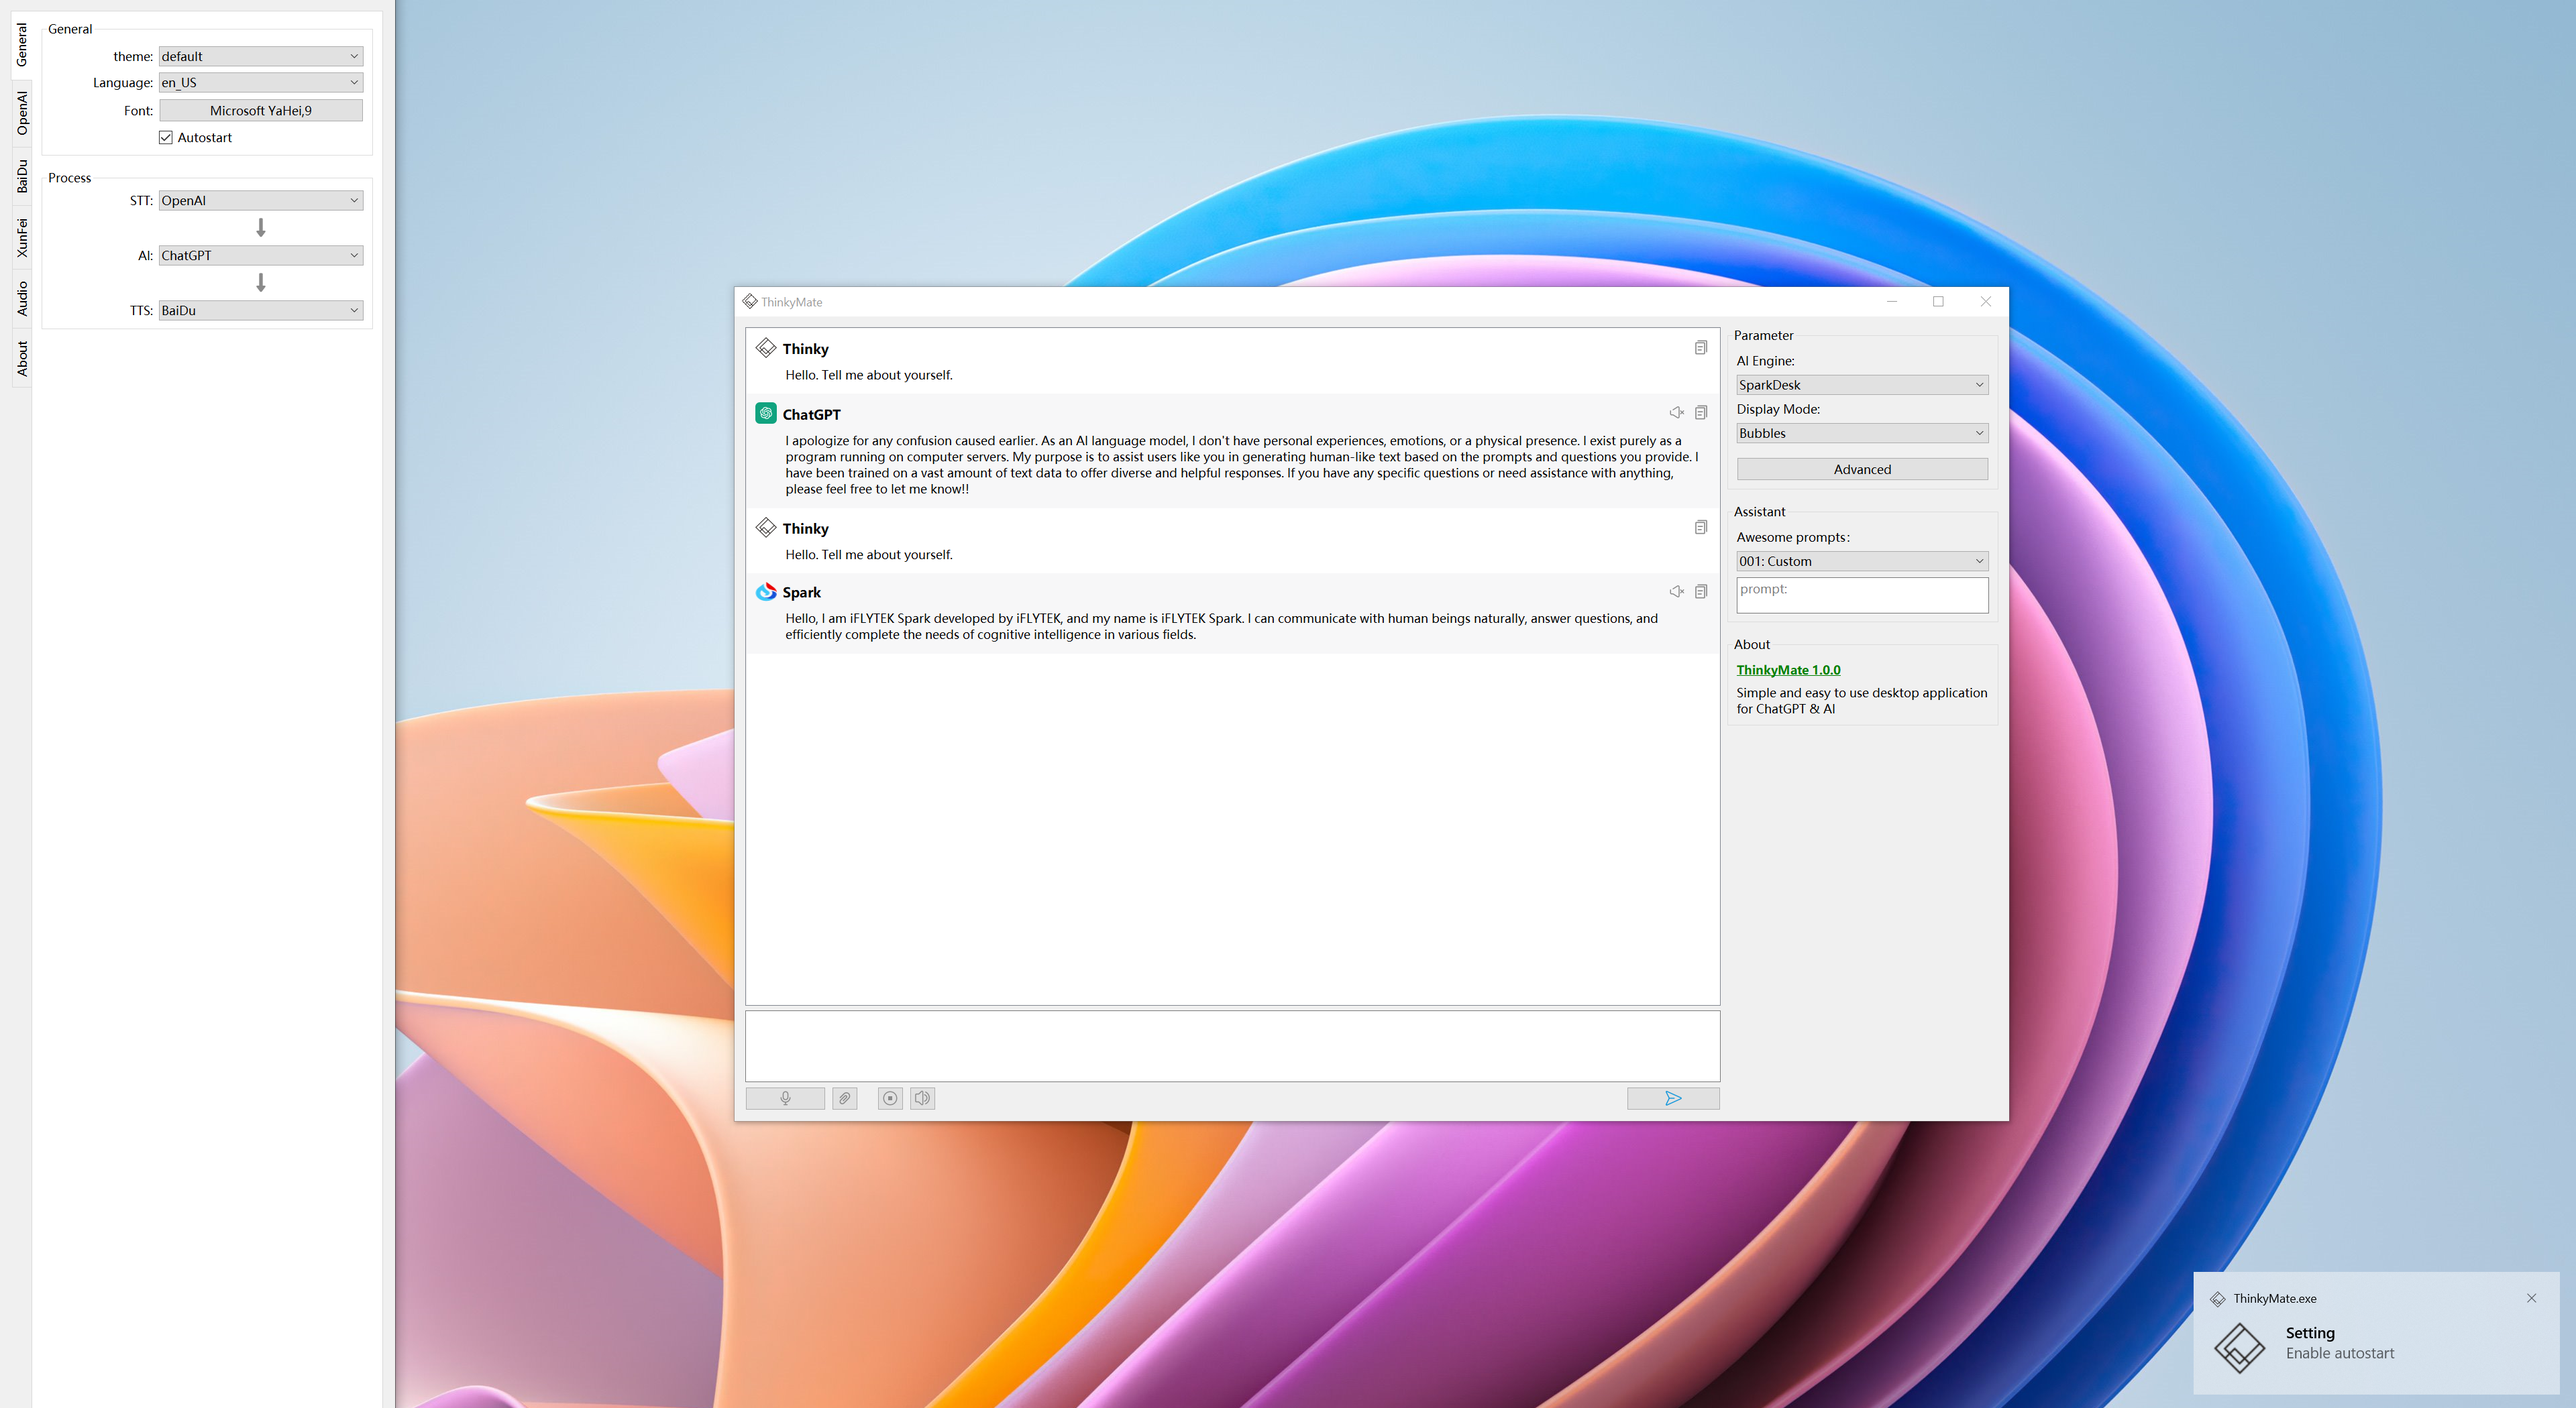
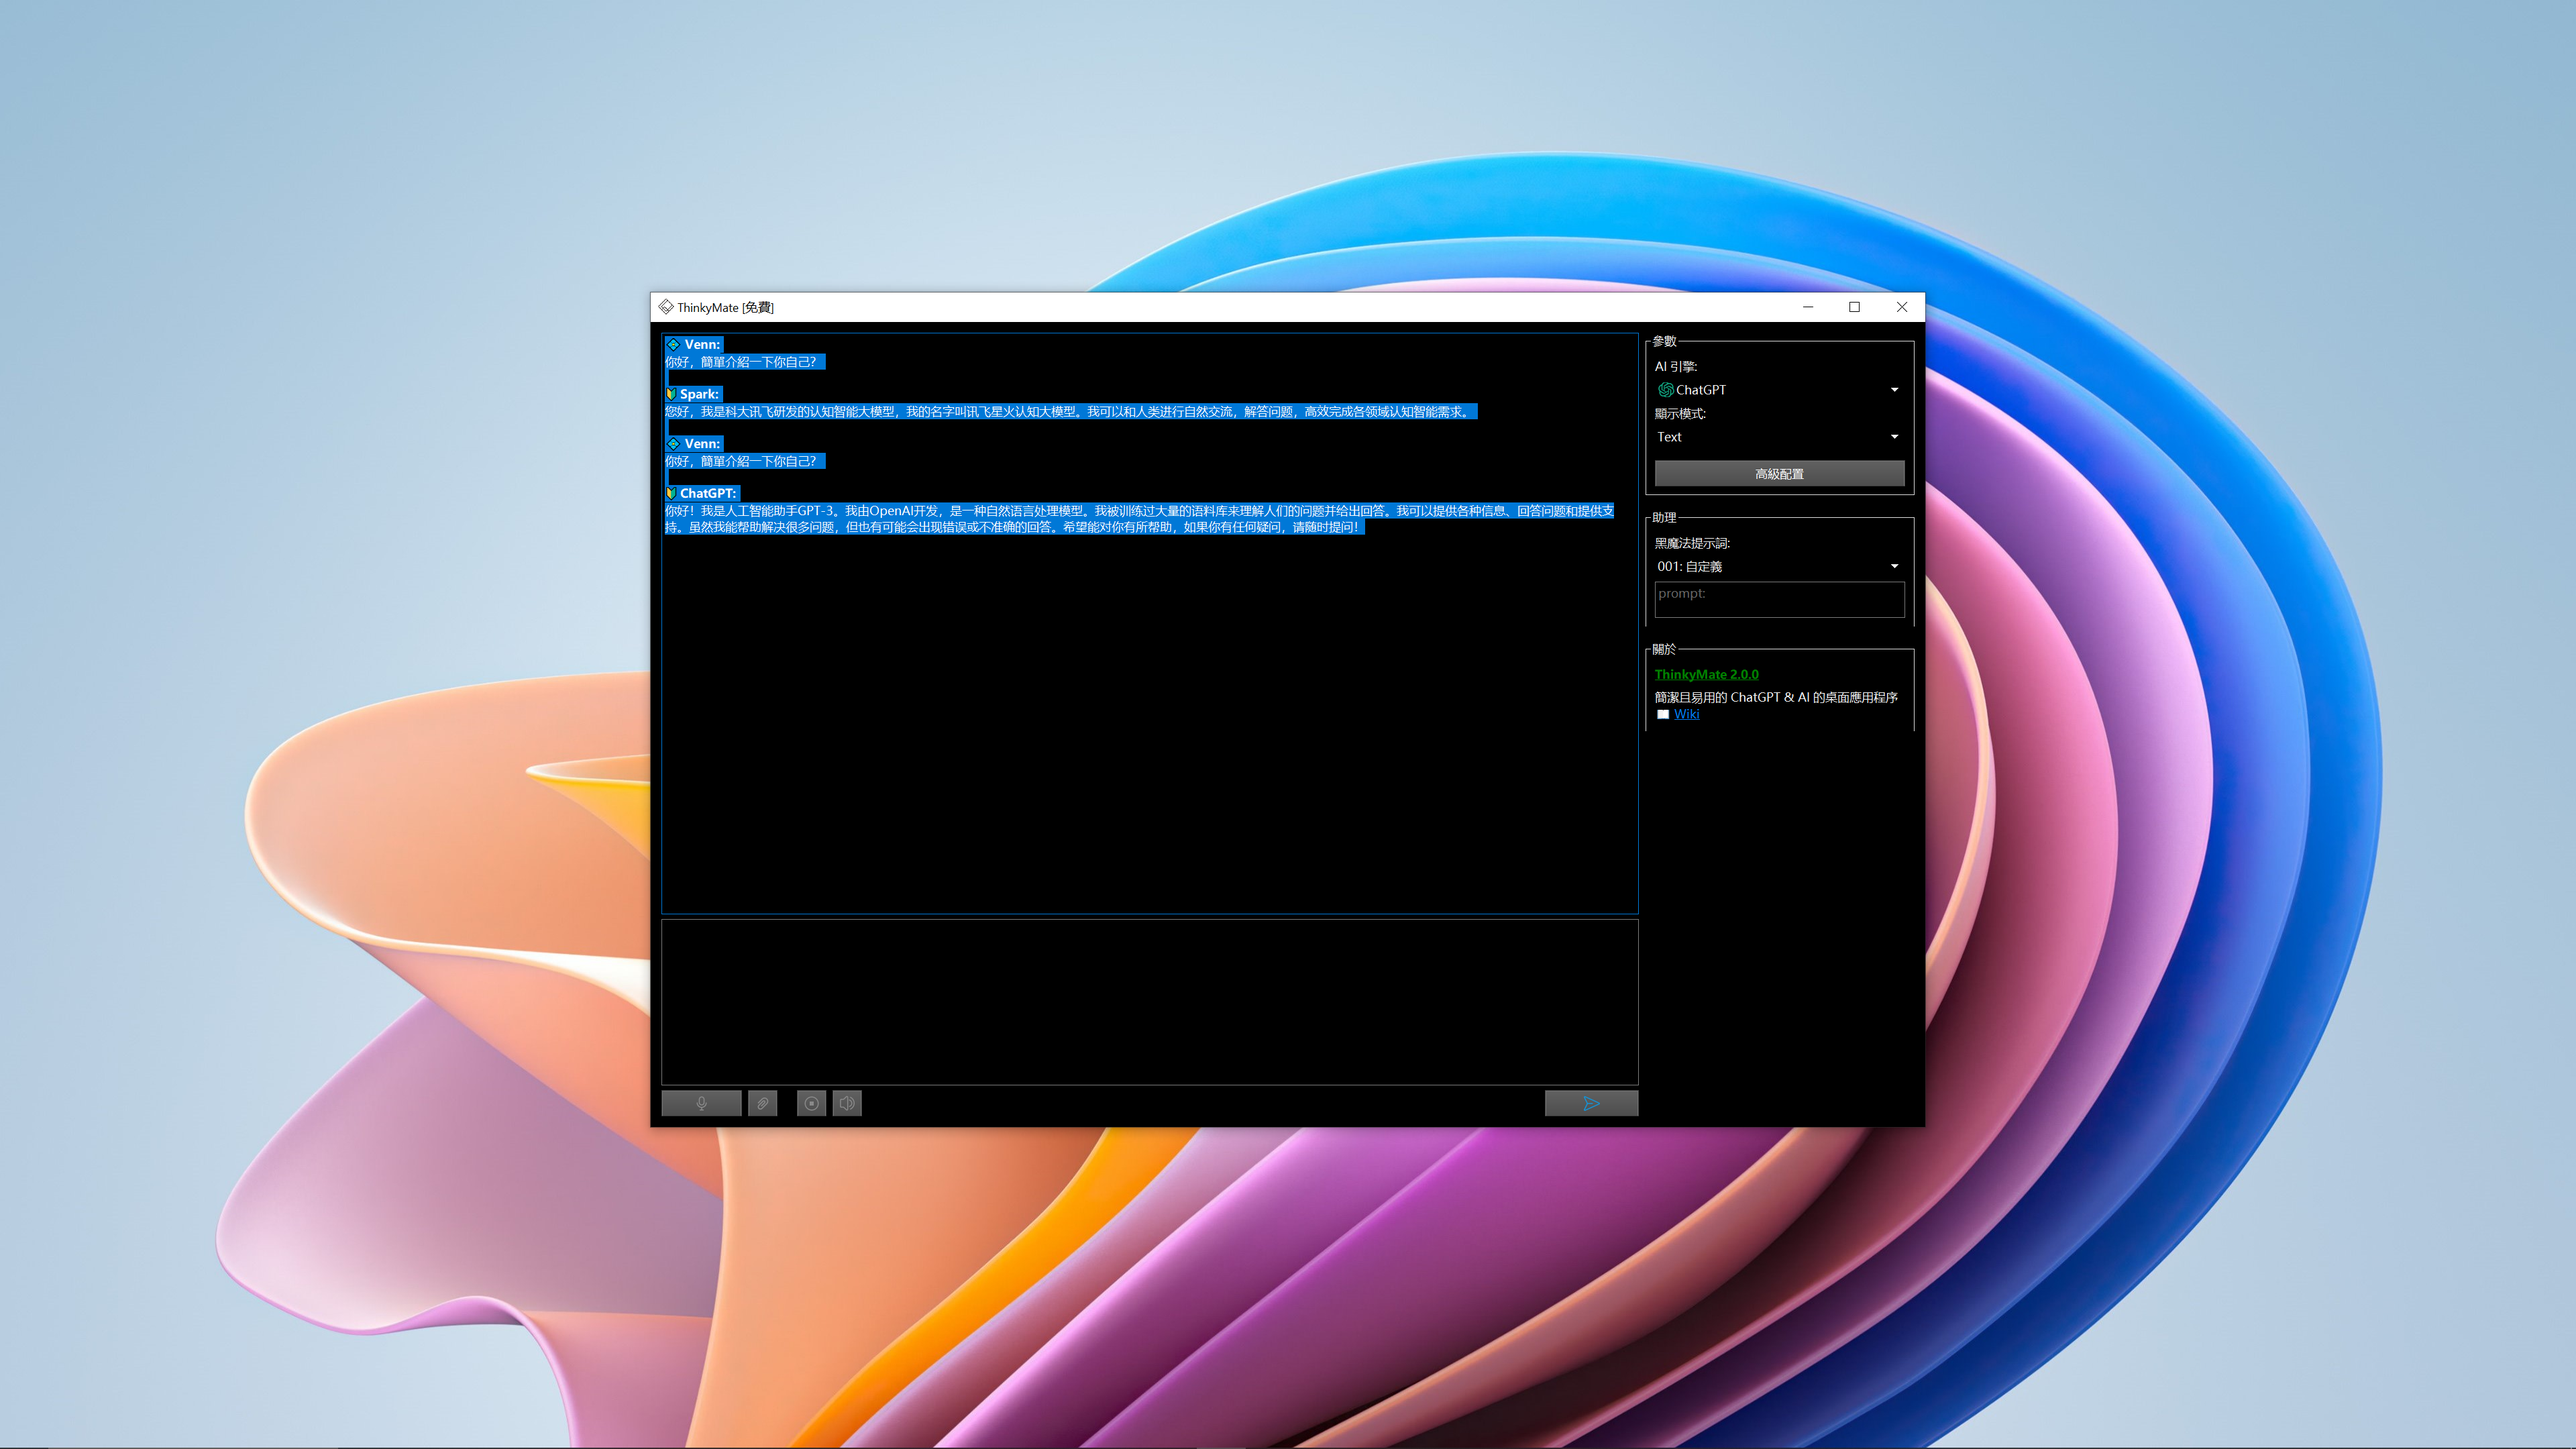
feat: update v2.0.0

diff --git a/docs/index.zh_CN.md b/docs/index.zh_CN.md
@@ -8,7 +8,7 @@ layout: default
   <p>
       <h1>
       <a href="https://thinkymate.com">
-          <img src="./snapshoot/logo-text.png" width="100%" alt="ThinkyMate"/>
+          <img src="https://fastly.jsdelivr.net/gh/XMuli/xmuliPic@pic/2023/202312180312618.png" width="100%" alt="ThinkyMate"/>
       </a>
     </h1>
     <br/>
@@ -18,13 +18,89 @@ layout: default
   </p>
 </div>
 <div align="center">
-  <p align="right"><br><a href="index.md">English</a> | <a href="index.zh_CN.md">简体中文</a></p>
+  <p align="right"><br><a href="https://thinkymate.com/">English</a> | <a href="https://github.com/XMuli/ThinkyMatePages/blob/master/docs/index.zh_CN.md">简体中文</a></p>
 </div>
+
 
 
 
 ## Preview
 
-<img src="./snapshoot/1.png" width="100%"/>
+<img src="https://fastly.jsdelivr.net/gh/XMuli/xmuliPic@pic/2023/202312180314212.png" width="100%"/>
 
-<img src="./snapshoot/2.png" width="100%"/>
+<img src="https://fastly.jsdelivr.net/gh/XMuli/xmuliPic@pic/2023/202312180319043.png" width="100%"/>
+
+
+
+## 网址
+
+| Title | URL                                                          |
+| ----- | ------------------------------------------------------------ |
+| Site  | [thinkymate.com](https://thinkymate.com/)                    |
+| Down  | [release](https://github.com/XMuli/ThinkyMatePages/releases) |
+| Guide | [wiki](https://github.com/XMuli/ThinkyMatePages/wiki)        |
+
+
+
+## 功能
+
+**用于 ChatGPT 和 AI 的简单易用的桌面应用程序！** 🎉🎉🎉🎊🎊🎊🎊
+
+**ChatGPT和AI：**
+
+- 无需注册和登录任何账户即可使用
+- **无需登录** 即可使用 ChatGPT 和 SparkDesk 聊天和语音的所有功能。
+- 支持 ChatGPT 和 SparkDesk AI 模型
+- 支持场景上下文与记录记忆
+- 支持使用私人 API KEY 使用相关功能。
+- 支持气泡模式和纯文本模式
+- 支持显示模式切换：流式（打字机）+常规响应
+- 支持更换主题： MacOS、Ubuntu、Windows、暗黑模式
+- API 密钥采用 AES_256 + CBC 算法加密，密码框输入
+- 跨平台支持（Windows、MacOS、Linux 操作系统）
+- 更多值得探索和发现的功能
+
+**语音：**
+
+- 支持文本到语音（TTS）和文本到语音（TTS）功能 
+
+- 支持硬件耳机联动扩展
+- 支持自动智能措辞和转换，更流畅自然
+- 支持修改语速和替换语音库
+
+
+
+## 教程
+
+1. [下载](https://github.com/XMuli/ThinkyMatePages/releases) 软件包并安装
+2. Tray Mail 上下文菜单，打开高级设置
+3. 输入 API KEY 以启用相应功能（可选）；请重启软件以确保其生效。
+   - 输入 OpenAI 密钥以使用 ChatGPT 功能和语音转文字功能
+   - 输入讯飞密钥，使用火花桌面功能
+   - 输入白度密钥使用文本转语音功能
+4. 输入语音或文本，享受 ChatGPT 功能！
+5. 更多预览图片请参阅 [这里](https://github.com/XMuli/ThinkyMatePages/tree/master/docs/snapshoot)
+
+
+
+## 太棒了
+
+如果对您有帮助，或者觉得有用，**您可以点击该仓库的⭐ Star 🍴 Fork 两个图标，方便抬手之间，说点赞的手，** 手留余香；其次可以我喝一杯冰的快乐水。 
+
+
+
+## 反馈
+
+如何反馈？非常欢迎您加入我们！您可以 [提一个反馈](https://github.com/XMuli/ThinkyMatePages/issues) ;提出任何错误、建议、功能设想，或帮助改进本软件。
+
+
+
+## 作者
+
+xmulitech@gmail.com | https://thinkymate.com
+
+
+
+## 更多
+
+当我想到时，我会把它添加到这里或维基上。

diff --git a/docs/index.md b/docs/index.md
@@ -8,7 +8,7 @@ layout: default
   <p>
       <h1>
       <a href="https://thinkymate.com">
-          <img src="./snapshoot/logo-text.png" width="100%" alt="ThinkyMate"/>
+          <img src="https://fastly.jsdelivr.net/gh/XMuli/xmuliPic@pic/2023/202312180312618.png" width="100%" alt="ThinkyMate"/>
       </a>
     </h1>
     <br/>
@@ -18,34 +18,50 @@ layout: default
   </p>
 </div>
 <div align="center">
-  <p align="right"><br><a href="index.md">English</a> | <a href="index.zh_CN.md">简体中文</a></p>
+  <p align="right"><br><a href="https://thinkymate.com/">English</a> | <a href="https://github.com/XMuli/ThinkyMatePages/blob/master/docs/index.zh_CN.md">简体中文</a></p>
 </div>
+
 
 
 
 ## Preview
 
-<img src="./snapshoot/1.png" width="100%"/>
+<img src="https://fastly.jsdelivr.net/gh/XMuli/xmuliPic@pic/2023/202312180314212.png" width="100%"/>
 
-<img src="./snapshoot/2.png" width="100%"/>
+<img src="https://fastly.jsdelivr.net/gh/XMuli/xmuliPic@pic/2023/202312180319043.png" width="100%"/>
 
 
+
+## Office
+
+
+| Title | URL                                                          |
+| ----- | ------------------------------------------------------------ |
+| Site  | [thinkymate.com](https://thinkymate.com/)                    |
+| Down  | [release](https://github.com/XMuli/ThinkyMatePages/releases) |
+| Guide | [wiki](https://github.com/XMuli/ThinkyMatePages/wiki)        |
 
 ## Features
 
-**Celebrate with the release of the official first version v1.0.0!** 🎉🎉🎉🎊🎊🎊
+**Simple and easy to use desktop application for ChatGPT & AI!** 🎉🎉🎉🎊🎊🎊
 
 **ChatGPT & AI:**
 
-- Support speech-to-text direct questioning speech-to-text (STT)
+- No need to register and login any account to use
+- Use all the features of ChatGPT and SparkDesk Chat and Voice **without logging in.**
 - Support ChatGPT and SparkDesk AI Model
-- Support text to speech function text-to-speech (TTS)
+- Supports scene context support with drawing record memory
+- Supports using private API KEY to use related functions.
+- Support bubble mode and plain text mode
 - Support display mode switching: streaming (typewriter) + regular response
 - Support theme change: MacOS, Ubuntu, Windows, Diablo mode
 - API Key encryption by AES_256 + CBC algorithm, password box input
 - Cross-platform support (Windows, MacOS, Linux OS)
+- More features to explore and discover
 
 **Voice:**
+
+- Support text to speech(TTS) and text-to-speech (TTS)  function 
 
 - Support hardware HeadSet headset linkage extension
 - Support automatic intelligent phrase and conversion, more fluent and natural
@@ -62,7 +78,7 @@ layout: default
    - Enter XunFei Key to use SparkDesk function
    - Enter BaiDu Key to use the text-to-speech function
 4. Enter your voice or text and enjoy using ChatGPT features!
-5. For more preview images see [here](https://github.com/XMuli/ThinkyMatePages/docs/snapshoot/)
+5. For more preview images see [here](https://github.com/XMuli/ThinkyMatePages/tree/master/docs/snapshoot)
 
 
 

diff --git a/README.md b/README.md
@@ -2,7 +2,7 @@
   <p>
       <h1>
       <a href="https://thinkymate.com">
-          <img src="docs/snapshoot/logo-text.png" width="100%" alt="ThinkyMate"/>
+          <img src="https://fastly.jsdelivr.net/gh/XMuli/xmuliPic@pic/2023/202312180312618.png" width="100%" alt="ThinkyMate"/>
       </a>
     </h1>
     <br/>
@@ -12,7 +12,7 @@
   </p>
 </div>
 <div align="center">
-  <p align="right"><br><a href="index.md">English</a> | <a href="index.zh_CN.md">简体中文</a></p>
+  <p align="right"><br><a href="https://thinkymate.com/">English</a> | <a href="https://github.com/XMuli/ThinkyMatePages/blob/master/docs/index.zh_CN.md">简体中文</a></p>
 </div>
 
 
@@ -20,27 +20,42 @@
 
 ## Preview
 
-<img src="docs/snapshoot/1.png" width="100%"/>
+<img src="https://fastly.jsdelivr.net/gh/XMuli/xmuliPic@pic/2023/202312180314212.png" width="100%"/>
 
-<img src="docs/snapshoot/2.png" width="100%"/>
+<img src="https://fastly.jsdelivr.net/gh/XMuli/xmuliPic@pic/2023/202312180319043.png" width="100%"/>
 
 
+
+## Office
+
+
+| Title | URL                                                          |
+| ----- | ------------------------------------------------------------ |
+| Site  | [thinkymate.com](https://thinkymate.com/)                    |
+| Down  | [release](https://github.com/XMuli/ThinkyMatePages/releases) |
+| Guide | [wiki](https://github.com/XMuli/ThinkyMatePages/wiki)        |
 
 ## Features
 
-**Celebrate with the release of the official first version v1.0.0!** 🎉🎉🎉🎊🎊🎊
+**Simple and easy to use desktop application for ChatGPT & AI!** 🎉🎉🎉🎊🎊🎊
 
 **ChatGPT & AI:**
 
-- Support speech-to-text direct questioning speech-to-text (STT)
+- No need to register and login any account to use
+- Use all the features of ChatGPT and SparkDesk Chat and Voice **without logging in.**
 - Support ChatGPT and SparkDesk AI Model
-- Support text to speech function text-to-speech (TTS)
+- Supports scene context support with drawing record memory
+- Supports using private API KEY to use related functions.
+- Support bubble mode and plain text mode
 - Support display mode switching: streaming (typewriter) + regular response
 - Support theme change: MacOS, Ubuntu, Windows, Diablo mode
 - API Key encryption by AES_256 + CBC algorithm, password box input
 - Cross-platform support (Windows, MacOS, Linux OS)
+- More features to explore and discover
 
 **Voice:**
+
+- Support text to speech(TTS) and text-to-speech (TTS)  function 
 
 - Support hardware HeadSet headset linkage extension
 - Support automatic intelligent phrase and conversion, more fluent and natural
@@ -57,7 +72,7 @@
    - Enter XunFei Key to use SparkDesk function
    - Enter BaiDu Key to use the text-to-speech function
 4. Enter your voice or text and enjoy using ChatGPT features!
-5. For more preview images see [here](https://github.com/XMuli/ThinkyMatePages/docs/snapshoot/)
+5. For more preview images see [here](https://github.com/XMuli/ThinkyMatePages/tree/master/docs/snapshoot)
 
 
 
